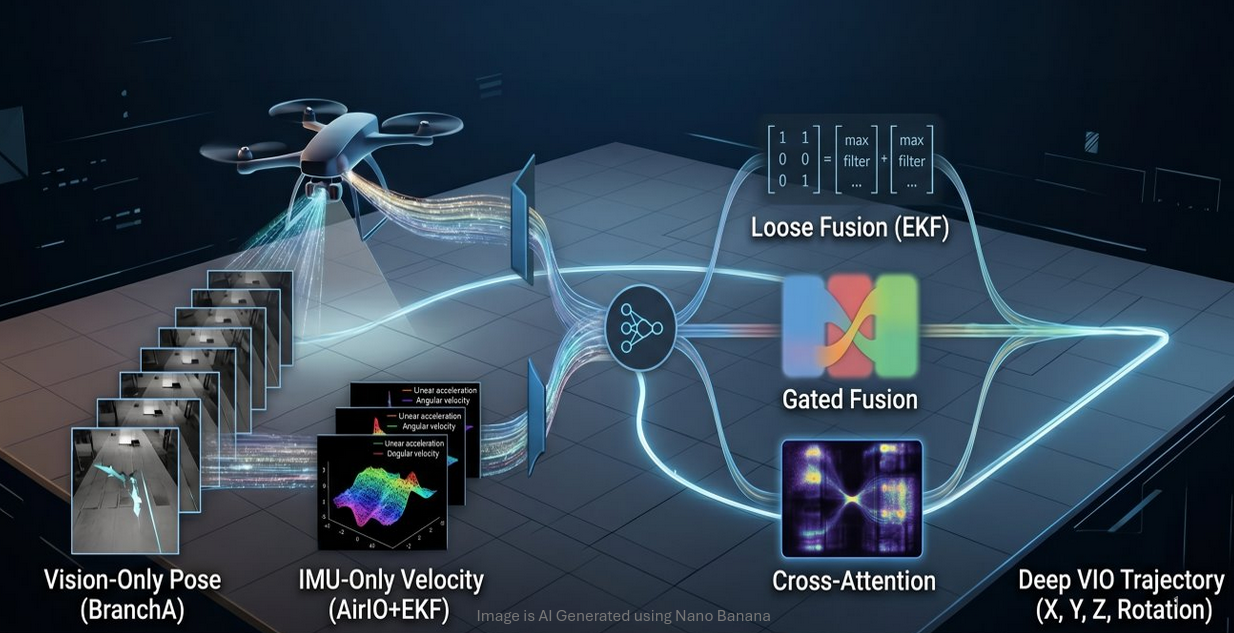
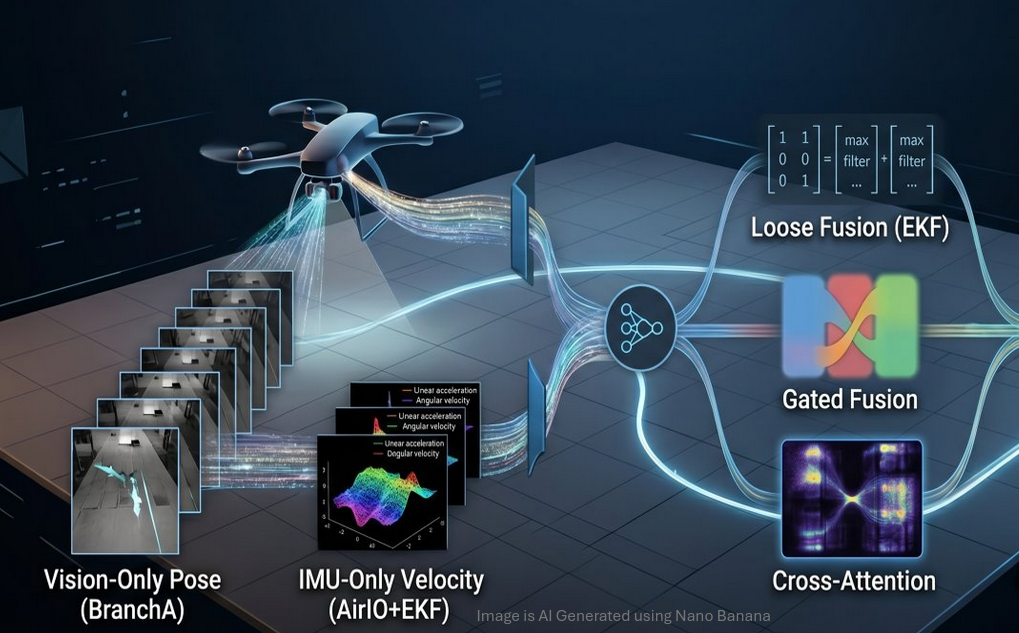
small changes

diff --git a/content/home/home.md b/content/home/home.md
@@ -50,8 +50,8 @@ draft = false
 
 ## Publications
 
- - Gadgil, S., **Baskar, P.R.**, Sebastian, B. et al. **Grasp Planning for Underactuated Three-Finger Grippers Using a Novel Triangular Representation.** J Intell Robot Syst 111, 101 (2025). https://doi.org/10.1007/s10846-025-02307-3
- - **Baskar P R**, Sebastian B, Dubey A, Kuriakose S M: **Intelligent Grasp Planning using Open-Vocabulary Image Segmentation and Large Language Models**, 2025 IEEE 4th Intl. Conference on Smart Technologies for Power, Energy and Control, NIT Goa, India (Received Best Paper Award)
+ - **Baskar P R**, Sebastian B, Dubey A, Kuriakose S M: **Intelligent Grasp Planning using Open-Vocabulary Image Segmentation and Large Language Models**, 2025 IEEE 4th Intl. Conference on Smart Technologies for Power, Energy and Control, NIT Goa, India. (Received Best Paper Award) https://doi.org/10.1109/STPEC66316.2025.11490732
+ - Gadgil, S., **Baskar, P.R.**, Sebastian, B. et al. **Grasp Planning for Underactuated Three-Finger Grippers Using a Novel Triangular Representation.** Journal of Intelligent & Robotic Systems 111, 101 (2025). https://doi.org/10.1007/s10846-025-02307-3
 
 <!-- 
 {{< spacer size="small" >}}
